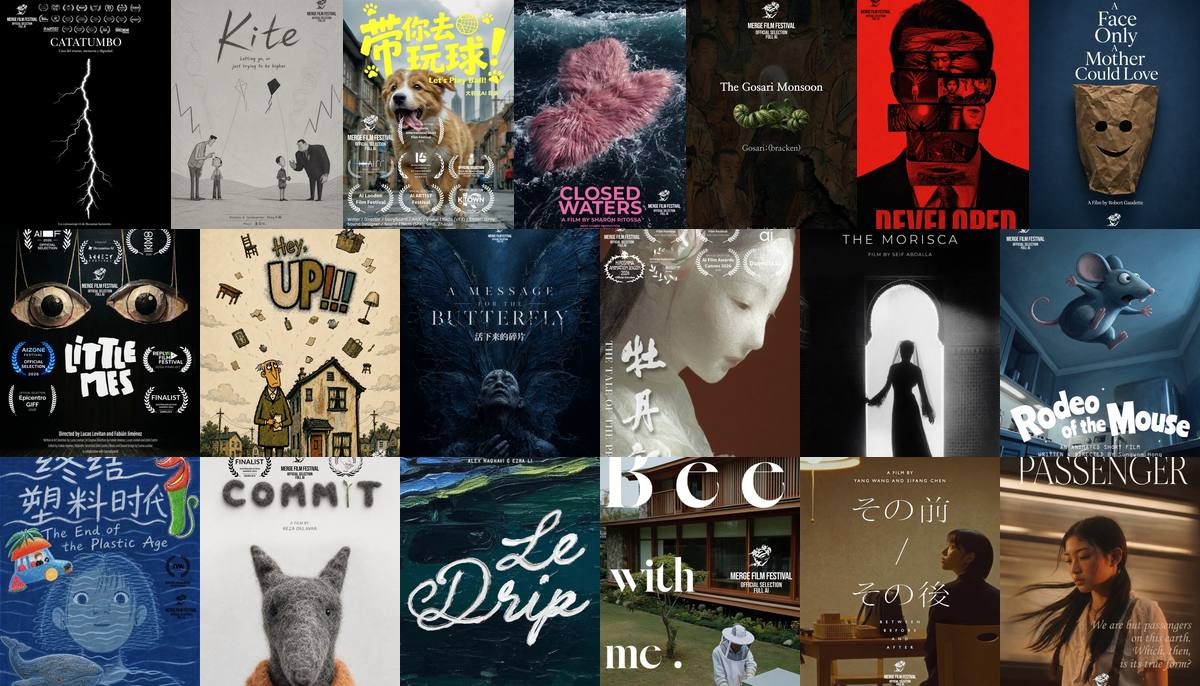
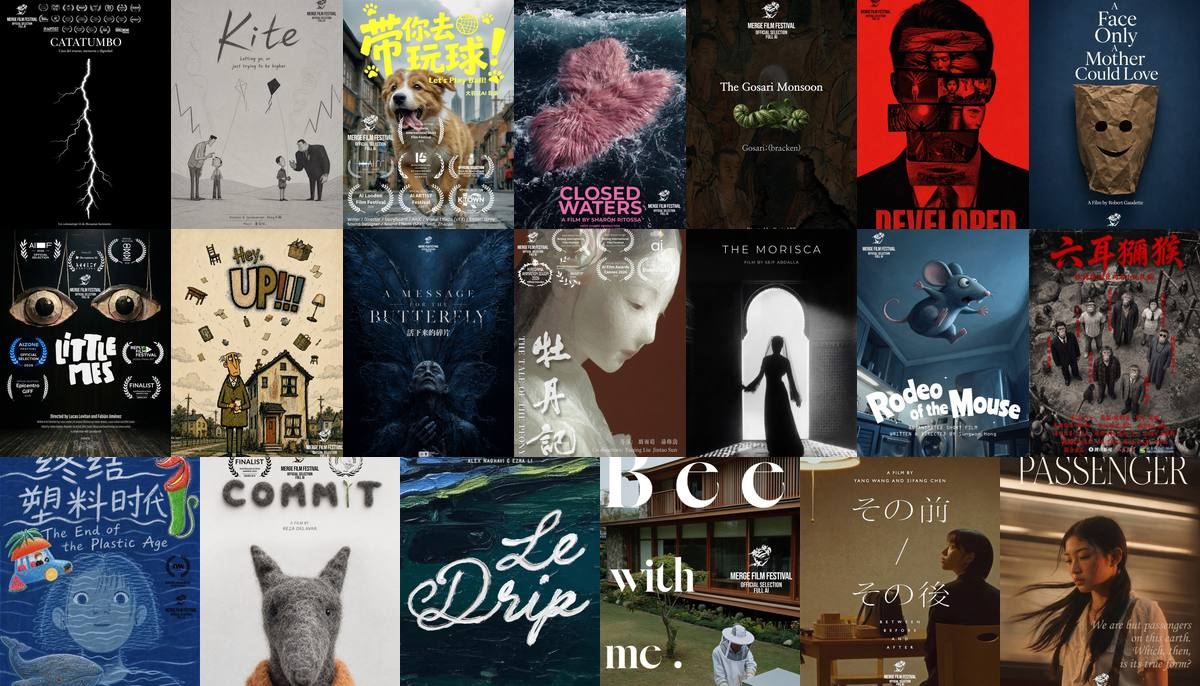
Bring back The Six-Eared Macaque as the twentieth Full AI film
The director resent his own poster and synopsis, so the film that had been
pulled for shipping Kite's artwork is back in the line-up. Bee With Me and
Passenger finally have a country, and Bee With Me a director portrait.

Changed region(s): [[0.0, 0.3061, 1.0, 0.6735]]

diff --git a/assets/js/translations.js b/assets/js/translations.js
@@ -49,7 +49,7 @@ window.MFF_I18N = {
       news0Link: "Meet the selectors",
       news9Date: "September 2026",
       news9Title: "The Full AI official selection is out",
-      news9Text: "Nineteen films make up the Full AI competition: posters, synopses and the first trailers are online.",
+      news9Text: "Twenty films make up the Full AI competition: posters, synopses and the first trailers are online.",
       news9Link: "See the selection",
       news8Date: "September 2026",
       news8Title: "The Hybrid official selection is out",
@@ -308,7 +308,9 @@ window.MFF_I18N = {
     full: {
       ballBio: "Based in Shanghai, Dayu is a director and a graduate of the Vancouver Film School. After years running his own production company and directing a wide range of commercial and creative work, he now works at the leading edge of AI-generated content, set on redefining the boundaries of digital storytelling. His approach recently took the top prize at the inaugural AIGC Pitch Forum of the 2025 Hailang Film Week. Anchored in traditional filmmaking, Dayu uses AI not to conjure spectacle but as a new lens for crafting emotionally resonant cinematic narratives.",
       ballSyn: "A dog is convinced that a “ball” can bring its owner happiness. So when the owner leaves home in tears, the dog takes the ball and sets out to “rescue” them.",
+      beeBio: "Emile Pison directed <em>Bee With Me</em>, which is in the Full AI competition of Merge Film Festival 2026.",
       beeSyn: "A wealthy Korean ecology professor finds solace in his quiet beekeeping, cherishing the peace of solitude. Yet as he tends his hives he begins to realise that true fulfilment does not lie in isolation. A short film about identity, loneliness and the people left outside.",
+      macaqueSyn: "In 2000, Feng Nian (played by Zhou Peng), a disillusioned young migrant worker in Beijing, works as a salesman in the Electronics City. Constantly weighed down by the pressures of life, he suffers from insomnia night after night, repeatedly dreaming that he has turned into the Six-Eared Macaque, forced to perform in public while chained and dressed in a suit. The pressure to perform at work, his family’s urging to marry, and the dilemma of whether to stay in the city or return to his hometown torment him without respite. Even though the shop manager is about to promote him, he can no longer bear the mental strain and can no longer tell his dreams from reality. These absurd dreams stand as a metaphor for the mental shackles from which the city’s ordinary people can find no escape.",
       betweenBio1: "Yang Wang is a filmmaker from China and co-directed <em>Between Before and After</em> with Sifang Chen. The film is in the Full AI competition of Merge Film Festival 2026.",
       betweenBio2: "Sifang Chen is a filmmaker from China and co-directed <em>Between Before and After</em> with Yang Wang. The film is in the Full AI competition of Merge Film Festival 2026.",
       betweenSyn: "On her way home from work Kyoko sees a huge billboard featuring her ex-girlfriend, Nagao. Back in her empty apartment she hesitates for a long time before finally asking to meet. The two reunite in the city at night. There is no small talk, only a restrained, quiet conversation. Their separation five years ago, the past that was never questioned and the memories each of them has kept slowly surface. As the conversation deepens, the reunion begins to reveal an ambiguous and unstable nature.",
@@ -720,7 +722,7 @@ window.MFF_I18N = {
       news0Link: "Scopri i selezionatori",
       news9Date: "Settembre 2026",
       news9Title: "È uscita la selezione ufficiale Full AI",
-      news9Text: "Diciannove film compongono il concorso Full AI: locandine, sinossi e i primi trailer sono online.",
+      news9Text: "Venti film compongono il concorso Full AI: locandine, sinossi e i primi trailer sono online.",
       news9Link: "Scopri la selezione",
       news8Date: "Settembre 2026",
       news8Title: "È uscita la selezione ufficiale Hybrid",
@@ -979,7 +981,9 @@ window.MFF_I18N = {
     full: {
       ballBio: "Con base a Shanghai, Dayu è un regista diplomato alla Vancouver Film School. Dopo anni alla guida della propria casa di produzione e di progetti commerciali e creativi molto diversi fra loro, oggi lavora sulla frontiera dei contenuti generati con l’AI, deciso a ridefinire i confini del racconto digitale. Il suo approccio ha appena vinto il primo premio del primo AIGC Pitch Forum della Hailang Film Week 2025. Radicato nel cinema tradizionale, Dayu usa l’AI non per creare spettacolo ma come una nuova lente per costruire racconti cinematografici capaci di emozionare.",
       ballSyn: "Un cane è convinto che una “palla” possa rendere felice il suo padrone. Così, quando il padrone esce di casa in lacrime, prende la palla e parte per “salvarlo”.",
+      beeBio: "Emile Pison ha diretto <em>Bee With Me</em>, in concorso nella sezione Full AI del Merge Film Festival 2026.",
       beeSyn: "Un facoltoso professore di ecologia coreano trova conforto nella quiete dell’apicoltura e nella pace della solitudine. Ma mentre si prende cura delle arnie comincia a capire che la vera pienezza non sta nell’isolamento. Un cortometraggio sull’identità, la solitudine e chi resta fuori.",
+      macaqueSyn: "Anno 2000. Feng Nian (interpretato da Zhou Peng), giovane lavoratore migrante disilluso, fa il commesso nella Città dell’Elettronica di Pechino. Schiacciato dal peso costante della vita, soffre d’insonnia notte dopo notte e sogna ripetutamente di essersi trasformato nel Macaco dalle sei orecchie, costretto a esibirsi in pubblico incatenato e in giacca e cravatta. La pressione di rendere al lavoro, la famiglia che lo spinge a sposarsi e il dilemma fra restare in città o tornare al paese non gli danno tregua. Anche se il direttore del negozio sta per promuoverlo, la tensione mentale diventa insostenibile e non riesce più a distinguere il sogno dalla realtà. Quei sogni assurdi sono la metafora delle catene mentali da cui la gente comune della città non trova via d’uscita.",
       betweenBio1: "Yang Wang è un regista cinese e ha co-diretto <em>Between Before and After</em> con Sifang Chen. Il film è in concorso nella sezione Full AI del Merge Film Festival 2026.",
       betweenBio2: "Sifang Chen è una regista cinese e ha co-diretto <em>Between Before and After</em> con Yang Wang. Il film è in concorso nella sezione Full AI del Merge Film Festival 2026.",
       betweenSyn: "Tornando a casa dal lavoro, Kyoko vede un enorme cartellone con la sua ex, Nagao. Nell’appartamento vuoto esita a lungo prima di chiederle di vedersi. Le due si ritrovano in città, di notte. Nessun convenevole, solo una conversazione trattenuta e sottovoce. La separazione di cinque anni prima, il passato che nessuna delle due ha mai messo in discussione e i ricordi che ciascuna ha conservato affiorano poco a poco. Più il dialogo si approfondisce, più l’incontro rivela una natura ambigua e instabile.",
@@ -1391,7 +1395,7 @@ window.MFF_I18N = {
       news0Link: "Découvrir l’équipe",
       news9Date: "Septembre 2026",
       news9Title: "La sélection officielle Full AI est en ligne",
-      news9Text: "Dix-neuf films composent la compétition Full AI : affiches, synopsis et premières bandes-annonces sont en ligne.",
+      news9Text: "Vingt films composent la compétition Full AI : affiches, synopsis et premières bandes-annonces sont en ligne.",
       news9Link: "Voir la sélection",
       news8Date: "Septembre 2026",
       news8Title: "La sélection officielle Hybrid est en ligne",
@@ -1650,7 +1654,9 @@ window.MFF_I18N = {
     full: {
       ballBio: "Installé à Shanghai, Dayu est réalisateur et diplômé de la Vancouver Film School. Après des années à la tête de sa propre société de production et une longue série de projets publicitaires et créatifs, il travaille aujourd’hui à la pointe des contenus générés par IA, décidé à redéfinir les frontières du récit numérique. Sa démarche vient de remporter le premier prix du tout premier AIGC Pitch Forum de la Hailang Film Week 2025. Ancré dans le cinéma traditionnel, Dayu n’utilise pas l’IA pour produire du spectacle mais comme un nouvel objectif pour construire des récits qui touchent.",
       ballSyn: "Un chien est convaincu qu’une « balle » peut rendre son maître heureux. Alors, quand celui-ci quitte la maison en larmes, il prend la balle et part le « sauver ».",
+      beeBio: "Emile Pison a réalisé <em>Bee With Me</em>, en compétition dans la section Full AI du Merge Film Festival 2026.",
       beeSyn: "Un riche professeur d’écologie coréen trouve du réconfort dans l’apiculture et dans la paix de la solitude. Mais à mesure qu’il s’occupe de ses ruches, il comprend que l’accomplissement ne se trouve pas dans l’isolement. Un court métrage sur l’identité, la solitude et ceux qu’on laisse dehors.",
+      macaqueSyn: "En 2000, Feng Nian (interprété par Zhou Peng), jeune travailleur migrant désabusé, est vendeur dans la Cité de l’électronique de Pékin. Écrasé par le poids constant de la vie, il souffre d’insomnie nuit après nuit et rêve sans cesse qu’il s’est transformé en Macaque aux six oreilles, contraint de se produire en public, enchaîné et en costume. La pression du rendement au travail, sa famille qui le presse de se marier et le dilemme entre rester en ville ou rentrer au pays le tourmentent sans répit. Le gérant du magasin s’apprête pourtant à le promouvoir, mais la tension mentale devient insoutenable et il ne distingue plus le rêve du réel. Ces rêves absurdes sont la métaphore des chaînes mentales dont les gens ordinaires de la ville ne trouvent pas la sortie.",
       betweenBio1: "Yang Wang est un cinéaste chinois. Il a coréalisé <em>Between Before and After</em> avec Sifang Chen. Le film est en compétition dans la section Full AI du Merge Film Festival 2026.",
       betweenBio2: "Sifang Chen est une cinéaste chinoise. Elle a coréalisé <em>Between Before and After</em> avec Yang Wang. Le film est en compétition dans la section Full AI du Merge Film Festival 2026.",
       betweenSyn: "En rentrant du travail, Kyoko aperçoit une immense affiche où pose son ex-compagne, Nagao. De retour dans son appartement vide, elle hésite longuement avant de lui proposer de se revoir. Les deux femmes se retrouvent en ville, la nuit. Pas de bavardage, seulement une conversation retenue, à voix basse. Leur séparation cinq ans plus tôt, le passé que personne n’a jamais interrogé et les souvenirs que chacune a gardés remontent peu à peu. Plus l’échange s’approfondit, plus les retrouvailles révèlent leur nature ambiguë et instable.",
@@ -2062,7 +2068,7 @@ window.MFF_I18N = {
       news0Link: "Das Auswahlteam entdecken",
       news9Date: "September 2026",
       news9Title: "Die offizielle Full-AI-Auswahl ist da",
-      news9Text: "Neunzehn Filme bilden den Full-AI-Wettbewerb: Plakate, Inhaltsangaben und die ersten Trailer sind online.",
+      news9Text: "Zwanzig Filme bilden den Full-AI-Wettbewerb: Plakate, Inhaltsangaben und die ersten Trailer sind online.",
       news9Link: "Zur Auswahl",
       news8Date: "September 2026",
       news8Title: "Die offizielle Hybrid-Auswahl ist da",
@@ -2321,7 +2327,9 @@ window.MFF_I18N = {
     full: {
       ballBio: "Dayu lebt in Shanghai, ist Regisseur und Absolvent der Vancouver Film School. Nach Jahren an der Spitze seiner eigenen Produktionsfirma und einer langen Reihe von Werbe- und Kreativprojekten arbeitet er heute an vorderster Front der KI-generierten Inhalte, mit dem festen Vorsatz, die Grenzen des digitalen Erzählens neu zu ziehen. Sein Ansatz hat gerade den ersten Preis beim allerersten AIGC Pitch Forum der Hailang Film Week 2025 gewonnen. Dayu kommt vom klassischen Kino und nutzt KI nicht als Schauwert, sondern als neues Objektiv, um Geschichten zu bauen, die berühren.",
       ballSyn: "Ein Hund ist überzeugt, dass ein „Ball“ sein Herrchen glücklich machen kann. Als dieses eines Tages weinend das Haus verlässt, schnappt er sich den Ball und zieht los, um es zu „retten“.",
+      beeBio: "Emile Pison führte Regie bei <em>Bee With Me</em>, das im Full-AI-Wettbewerb des Merge Film Festival 2026 läuft.",
       beeSyn: "Ein wohlhabender koreanischer Ökologieprofessor findet Trost in der Imkerei und in der Ruhe des Alleinseins. Doch während er seine Bienenstöcke versorgt, begreift er, dass Erfüllung nicht in der Abgeschiedenheit liegt. Ein Kurzfilm über Identität, Einsamkeit und jene, die man draußen lässt.",
+      macaqueSyn: "Im Jahr 2000 arbeitet Feng Nian (gespielt von Zhou Peng), ein desillusionierter junger Wanderarbeiter, als Verkäufer in Pekings Electronics City. Unter dem ständigen Druck des Lebens leidet er Nacht für Nacht an Schlaflosigkeit und träumt immer wieder, er habe sich in den Sechsohrigen Makaken verwandelt, der angekettet und im Anzug öffentlich auftreten muss. Der Leistungsdruck im Job, die Familie, die ihn zum Heiraten drängt, und die Frage, ob er in der Stadt bleiben oder in sein Heimatdorf zurückkehren soll, lassen ihm keine Ruhe. Obwohl der Filialleiter ihn befördern will, hält er die seelische Anspannung nicht mehr aus und kann Traum und Wirklichkeit nicht mehr auseinanderhalten. Diese absurden Träume stehen als Metapher für die geistigen Fesseln, aus denen die einfachen Menschen der Stadt keinen Ausweg finden.",
       betweenBio1: "Yang Wang ist Filmemacher aus China. Gemeinsam mit Sifang Chen hat er bei <em>Between Before and After</em> Regie geführt. Der Film läuft im Full-AI-Wettbewerb des Merge Film Festival 2026.",
       betweenBio2: "Sifang Chen ist Filmemacherin aus China. Gemeinsam mit Yang Wang hat sie bei <em>Between Before and After</em> Regie geführt. Der Film läuft im Full-AI-Wettbewerb des Merge Film Festival 2026.",
       betweenSyn: "Auf dem Heimweg von der Arbeit entdeckt Kyoko ein riesiges Plakat, auf dem ihre frühere Partnerin Nagao posiert. Zurück in ihrer leeren Wohnung zögert sie lange, bevor sie ihr ein Wiedersehen vorschlägt. Die beiden Frauen treffen sich nachts in der Stadt. Kein Smalltalk, nur ein verhaltenes, leises Gespräch. Ihre Trennung vor fünf Jahren, die Vergangenheit, nach der nie jemand gefragt hat, und die Erinnerungen, die jede für sich behalten hat, kommen langsam hoch. Je tiefer das Gespräch geht, desto deutlicher zeigt sich, wie uneindeutig und brüchig dieses Wiedersehen ist.",

diff --git a/in_competition/full/the-six-eared-macaque.html b/in_competition/full/the-six-eared-macaque.html
@@ -4,8 +4,8 @@
   <meta charset="utf-8" />
   <meta name="viewport" content="width=device-width, initial-scale=1, viewport-fit=cover" />
   <meta name="theme-color" content="#4B2E83" />
-  <title>A Message for the Butterfly — Merge Film Festival</title>
-  <meta name="description" content="A Message for the Butterfly, Zuxin Hou, Mark Wachholz — Full AI competition — Merge Film Festival." />
+  <title>The Six-Eared Macaque — Merge Film Festival</title>
+  <meta name="description" content="The Six-Eared Macaque, Ding Yi — Full AI competition — Merge Film Festival." />
 
   <link rel="stylesheet" href="../../assets/css/style.css?v=48" />
   <link rel="icon" href="../../assets/img/favicon.ico" sizes="any">
@@ -54,71 +54,32 @@
 
   <main>
     <!-- Film -->
-    <section class="section is-on-cream film" data-bg="photo" id="top" style="padding-top: clamp(120px, 18vh, 200px);">
+    <section class="section is-on-cream film section--pre-footer" data-bg="photo" id="top" style="padding-top: clamp(120px, 18vh, 200px);">
       <span class="stain stain--br" aria-hidden="true"></span>
       <div class="container">
         <div class="film__header reveal">
           <p class="film__kicker" data-i18n="film.catFull">Full AI • Competition</p>
-          <h1 class="film__title">A Message for the Butterfly</h1>
+          <h1 class="film__title">The Six-Eared Macaque</h1>
           <ul class="film__meta" aria-label="Film meta">
-            <li><strong data-i18n="film.mDirectors">Directors</strong> <span>Zuxin Hou, Mark Wachholz</span></li>
-            <li><strong data-i18n="film.mCountry">Country</strong> <span><span data-i18n="film.ctyChina">China</span>, <span data-i18n="film.ctyGermany">Germany</span></span></li>
-            <li><strong data-i18n="film.mRuntime">Runtime</strong> <span>8:08</span></li>
+            <li><strong data-i18n="film.mDirector">Director</strong> <span>Ding Yi</span></li>
+            <li><strong data-i18n="film.mRuntime">Runtime</strong> <span>15:41</span></li>
             <li><strong data-i18n="film.mGenre">Genre</strong> <span data-i18n="film.genLive">Live action</span></li>
           </ul>
         </div>
 
         <div class="film__grid">
           <figure class="film__poster reveal" data-delay="1">
-            <img src="../../assets/img/films/full/a-message-for-the-butterfly.jpg" alt="Poster: A Message for the Butterfly" loading="eager" />
+            <img src="../../assets/img/films/full/the-six-eared-macaque.jpg" alt="Poster: The Six-Eared Macaque" loading="eager" />
           </figure>
 
           <div class="film__content reveal" data-delay="2">
             <section class="film__block" aria-label="Synopsis">
               <h2 class="film__h" data-i18n="film.hSynopsis">Synopsis</h2>
-              <p class="film__p" data-i18n-html="full.butterflySyn">Synopsis coming soon.</p>
-            </section>
-
-            <section class="film__block" aria-label="Trailer">
-              <h2 class="film__h" data-i18n="film.hTrailer">Trailer</h2>
-              <video class="film__video" controls preload="none" playsinline
-                     poster="../../assets/video/full/a-message-for-the-butterfly-poster.jpg">
-                <source src="../../assets/video/full/a-message-for-the-butterfly.mp4" type="video/mp4" />
-              </video>
+              <p class="film__p" data-i18n-html="full.macaqueSyn">Synopsis coming soon.</p>
             </section>
 
             <div class="film__actions">
               <a class="btn btn--ghost" href="../index.html#full" data-i18n="film.navComp">← Go to In Competition</a>
-              <a class="btn btn--ghost" href="https://www.instagram.com/zn11/" target="_blank" rel="noopener noreferrer" data-i18n="film.instagram">Instagram</a>
-            </div>
-          </div>
-        </div>
-      </div>
-    </section>
-
-    <!-- Director -->
-    <section class="section is-on-violet author section--pre-footer" data-bg="violet" id="director">
-      <span class="stain stain--tl" aria-hidden="true"></span>
-      <div class="container">
-        <header class="author__copy reveal">
-          <p class="author__eyebrow" data-i18n="film.mDirectors">Directors</p>
-          <h2 class="section__title">Zuxin Hou &amp; Mark Wachholz</h2>
-        </header>
-        <div class="author__card reveal" data-delay="1">
-          <div class="author__media"><img src="../../assets/img/films/full/a-message-for-the-butterfly-director-1.jpg" alt="Portrait of Zuxin Hou" loading="lazy" /></div>
-          <div class="author__body">
-            <p class="author__eyebrow">Zuxin Hou</p>
-            <p data-i18n-html="full.butterflyBio1">Biography coming soon.</p>
-          </div>
-        </div>
-        <div class="author__card reveal" data-delay="2">
-          <div class="author__media"><img src="../../assets/img/films/full/a-message-for-the-butterfly-director-2.jpg" alt="Portrait of Mark Wachholz" loading="lazy" /></div>
-          <div class="author__body">
-            <p class="author__eyebrow">Mark Wachholz</p>
-            <p data-i18n-html="full.butterflyBio2">Biography coming soon.</p>
-            <div class="author__nav">
-              <a class="btn btn--ghost" href="../index.html#full" data-i18n="film.navComp">← Go to In Competition</a>
-              <a class="btn" href="../../passes/index.html" data-i18n="nav.passesLong">Get your pass</a>
             </div>
           </div>
         </div>

diff --git a/in_competition/full/bee-with-me.html b/in_competition/full/bee-with-me.html
@@ -54,7 +54,7 @@
 
   <main>
     <!-- Film -->
-    <section class="section is-on-cream film section--pre-footer" data-bg="photo" id="top" style="padding-top: clamp(120px, 18vh, 200px);">
+    <section class="section is-on-cream film" data-bg="photo" id="top" style="padding-top: clamp(120px, 18vh, 200px);">
       <span class="stain stain--br" aria-hidden="true"></span>
       <div class="container">
         <div class="film__header reveal">
@@ -62,6 +62,7 @@
           <h1 class="film__title">Bee With Me</h1>
           <ul class="film__meta" aria-label="Film meta">
             <li><strong data-i18n="film.mDirector">Director</strong> <span>Emile Pison</span></li>
+            <li><strong data-i18n="film.mCountry">Country</strong> <span data-i18n="film.ctySouthKorea">South Korea</span></li>
             <li><strong data-i18n="film.mRuntime">Runtime</strong> <span>9:12</span></li>
             <li><strong data-i18n="film.mGenre">Genre</strong> <span data-i18n="film.genLive">Live action</span></li>
           </ul>
@@ -81,6 +82,27 @@
             <div class="film__actions">
               <a class="btn btn--ghost" href="../index.html#full" data-i18n="film.navComp">← Go to In Competition</a>
               <a class="btn btn--ghost" href="https://www.instagram.com/mipi______/" target="_blank" rel="noopener noreferrer" data-i18n="film.instagram">Instagram</a>
+            </div>
+          </div>
+        </div>
+      </div>
+    </section>
+
+    <!-- Director -->
+    <section class="section is-on-violet author section--pre-footer" data-bg="violet" id="director">
+      <span class="stain stain--tl" aria-hidden="true"></span>
+      <div class="container">
+        <header class="author__copy reveal">
+          <p class="author__eyebrow" data-i18n="film.hDirector">Director</p>
+          <h2 class="section__title">Emile Pison</h2>
+        </header>
+        <div class="author__card reveal" data-delay="1">
+          <div class="author__media"><img src="../../assets/img/films/full/bee-with-me-director.jpg" alt="Portrait of Emile Pison" loading="lazy" /></div>
+          <div class="author__body">
+            <p data-i18n-html="full.beeBio">Biography coming soon.</p>
+            <div class="author__nav">
+              <a class="btn btn--ghost" href="../index.html#full" data-i18n="film.navComp">← Go to In Competition</a>
+              <a class="btn" href="../../passes/index.html" data-i18n="nav.passesLong">Get your pass</a>
             </div>
           </div>
         </div>
@@ -144,7 +166,7 @@
     </div>
   </footer>
 
-  <script src="../../assets/js/translations.js?v=29"></script>
+  <script src="../../assets/js/translations.js?v=30"></script>
   <script src="../../assets/js/app.js?v=10"></script>
 </body>
 </html>

diff --git a/in_competition/index.html b/in_competition/index.html
@@ -170,6 +170,13 @@
               <span class="film-card__meta">Hong Sungwon</span>
             </div>
           </a>
+          <a class="film-card" href="full/the-six-eared-macaque.html">
+            <div class="film-card__media"><img src="../assets/img/films/full/the-six-eared-macaque.jpg" alt="Poster: The Six-Eared Macaque" loading="lazy" /></div>
+            <div class="film-card__body">
+              <span class="film-card__title">The Six-Eared Macaque</span>
+              <span class="film-card__meta">Ding Yi</span>
+            </div>
+          </a>
           <a class="film-card" href="full/the-end-of-the-plastic-age.html">
             <div class="film-card__media"><img src="../assets/img/films/full/the-end-of-the-plastic-age.jpg" alt="Poster: The End of the Plastic Age" loading="lazy" /></div>
             <div class="film-card__body">
@@ -450,7 +457,7 @@
     </div>
   </footer>
 
-  <script src="../assets/js/translations.js?v=29"></script>
+  <script src="../assets/js/translations.js?v=30"></script>
   <script src="../assets/js/app.js?v=10"></script>
 </body>
 </html>

diff --git a/in_competition/full/passenger.html b/in_competition/full/passenger.html
@@ -62,6 +62,7 @@
           <h1 class="film__title">Passenger</h1>
           <ul class="film__meta" aria-label="Film meta">
             <li><strong data-i18n="film.mDirector">Director</strong> <span>Yuanbo Song</span></li>
+            <li><strong data-i18n="film.mCountry">Country</strong> <span data-i18n="film.ctySouthKorea">South Korea</span></li>
             <li><strong data-i18n="film.mRuntime">Runtime</strong> <span>14:26</span></li>
             <li><strong data-i18n="film.mGenre">Genre</strong> <span data-i18n="film.genLive">Live action</span></li>
           </ul>
@@ -173,7 +174,7 @@
     </div>
   </footer>
 
-  <script src="../../assets/js/translations.js?v=29"></script>
+  <script src="../../assets/js/translations.js?v=30"></script>
   <script src="../../assets/js/app.js?v=10"></script>
 </body>
 </html>

diff --git a/tickets/ticket.html b/tickets/ticket.html
@@ -64,7 +64,7 @@
   <script src="https://cdn.jsdelivr.net/npm/qr-creator@1.0.0/dist/qr-creator.min.js"
           integrity="sha384-cmmVU8dn+rGH6Yvlt0Q1+31iG9lS4wdVsqV/ZP/53RBddef+VZcYakA+NhG4S8wE"
           crossorigin="anonymous"></script>
-  <script src="../assets/js/translations.js?v=29"></script>
+  <script src="../assets/js/translations.js?v=30"></script>
   <script src="../assets/js/passes-config.js?v=2"></script>
   <script src="../assets/js/ticket.js?v=1"></script>
 </body>

diff --git a/badge/index.html b/badge/index.html
@@ -91,7 +91,7 @@
   <script src="https://cdn.jsdelivr.net/npm/qr-creator@1.0.0/dist/qr-creator.min.js"
           integrity="sha384-cmmVU8dn+rGH6Yvlt0Q1+31iG9lS4wdVsqV/ZP/53RBddef+VZcYakA+NhG4S8wE"
           crossorigin="anonymous"></script>
-  <script src="../assets/js/translations.js?v=29"></script>
+  <script src="../assets/js/translations.js?v=30"></script>
   <script src="../assets/js/passes-config.js?v=2"></script>
   <script src="../assets/js/badge.js?v=7"></script>
 </body>

diff --git a/tickets/index.html b/tickets/index.html
@@ -208,7 +208,7 @@
     </div>
   </footer>
 
-  <script src="../assets/js/translations.js?v=29"></script>
+  <script src="../assets/js/translations.js?v=30"></script>
   <script src="../assets/js/app.js?v=10"></script>
   <script src="../assets/js/passes-config.js?v=2"></script>
   <script src="../assets/js/tickets.js?v=1"></script>

diff --git a/passes/index.html b/passes/index.html
@@ -288,7 +288,7 @@
     </div>
   </footer>
 
-  <script src="../assets/js/translations.js?v=29"></script>
+  <script src="../assets/js/translations.js?v=30"></script>
   <script src="../assets/js/app.js?v=10"></script>
   <script src="../assets/js/passes-config.js?v=2"></script>
   <script src="../assets/js/passes.js?v=4"></script>

diff --git a/vote/index.html b/vote/index.html
@@ -123,7 +123,7 @@
     </section>
   </main>
 
-  <script src="../assets/js/translations.js?v=29"></script>
+  <script src="../assets/js/translations.js?v=30"></script>
   <script src="../assets/js/app.js?v=10"></script>
   <script src="../assets/js/vote-config.js"></script>
   <script src="../assets/js/vote.js"></script>

diff --git a/tickets/success.html b/tickets/success.html
@@ -45,7 +45,7 @@
 
   </main>
 
-  <script src="../assets/js/translations.js?v=29"></script>
+  <script src="../assets/js/translations.js?v=30"></script>
   <script src="../assets/js/passes-config.js?v=2"></script>
   <script>
   /* Stripe sends the customer back here the moment they pay, but the seats are

diff --git a/passes/success.html b/passes/success.html
@@ -44,7 +44,7 @@
 
   </main>
 
-  <script src="../assets/js/translations.js?v=29"></script>
+  <script src="../assets/js/translations.js?v=30"></script>
   <script src="../assets/js/passes-config.js?v=2"></script>
   <script>
   /* Stripe sends the customer back here the moment they pay, but the badge is
